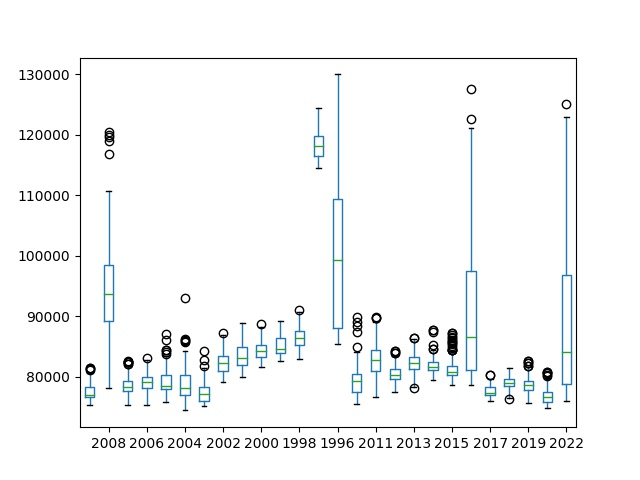
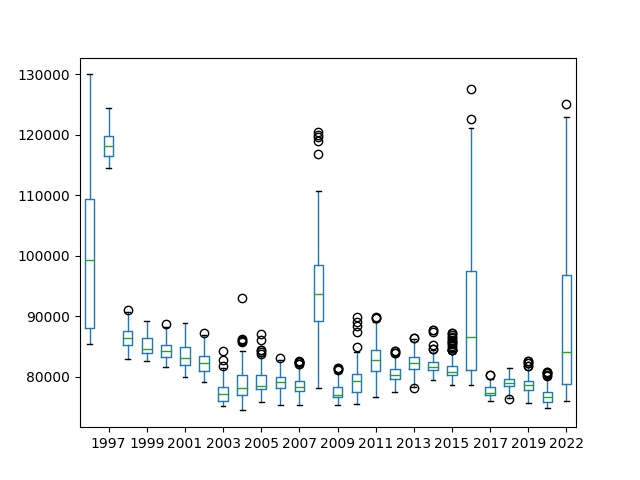
bruh

diff --git a/figureGeneration.py b/figureGeneration.py
@@ -34,6 +34,7 @@ def createLapTimeStatsFigures():
         tempDf = tempDf.reindex(sorted(tempDf.columns), axis=1)
         # tempDf.reset_index(inplace=True)
 
+
         rotationDf = tempDf.T
         rotationDf.reset_index(inplace=True)
 
@@ -47,6 +48,11 @@ def createLapTimeStatsFigures():
         # print(tempDf.columns)
         tempDf.columns = tempDf.columns.astype(int)
 
+        # literally cannot be bothered, for some reason in 2020 there were two races on the same track
+        try:
+            tempDf = tempDf.reindex(sorted(tempDf.columns), axis=1)
+        except:
+            continue
         ax = tempDf.plot.box()
         ax.xaxis.set_major_locator(ticker.MultipleLocator(2))
         plt.show()
